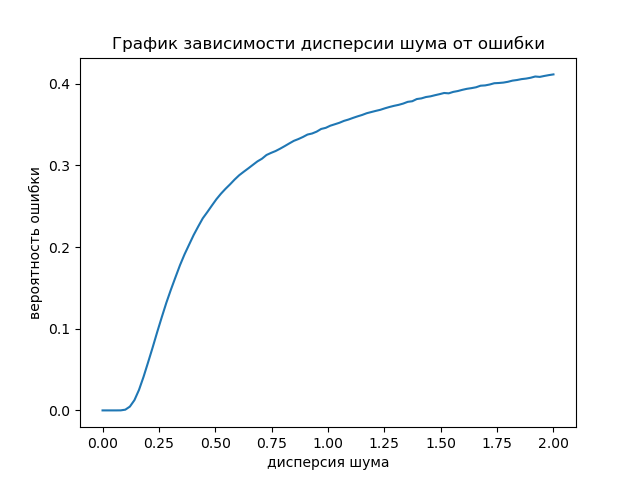
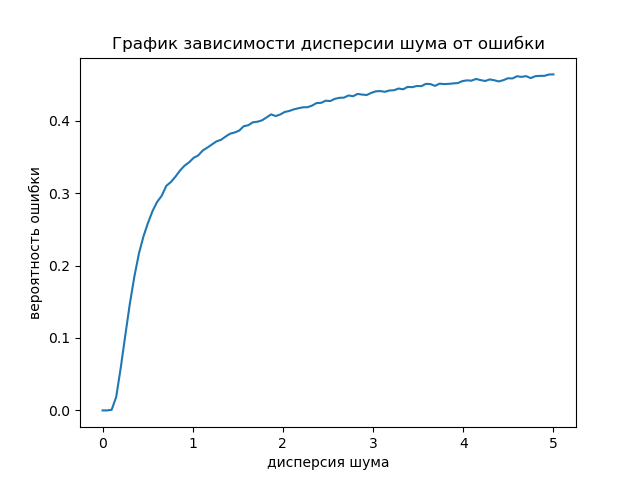
commit

diff --git a/graph.py b/graph.py
@@ -12,7 +12,7 @@ os.system("make")
 modules = ["QPSK", "QAM16", "QAM64"]
 
 for mod in modules:
-    X = np.linspace(0, 2, 100)
+    X = np.linspace(0, 5, 100)
     y = []
 
     for x in X:

diff --git a/src/main.cpp b/src/main.cpp
@@ -52,7 +52,7 @@ int main(int argc, char* argv[]) {
 
     qam::QAM q(mod);
 
-    int N = 1200000;
+    int N = 120000;
 
     std::vector<bool> bits = generate_bits(N, 0.5);
 

diff --git a/README.md b/README.md
@@ -44,7 +44,7 @@ cd test && make # Сборка тестов
 ```
 
 ## Параметры
-- Длина битовой последовательности: `N = 1,200,000`
+- Длина битовой последовательности: `N = 120,000`
 
 ## Построение графиков
 ```bash
@@ -53,7 +53,7 @@ python3 graph.py  # Генерирует graph_QPSK.png, graph_QAM16.png, graph_
 Скрипт запускает `main.cpp` для всех модуляторов и сохраняет графики зависимости BER от шума.
 
 ## Параметры
-- Диапазон дисперсий для графиков: `X = np.linspace(0, 2, 100)`
+- Диапазон дисперсий для графиков: `X = np.linspace(0, 5, 100)`
 
 
 ## Тестирование
